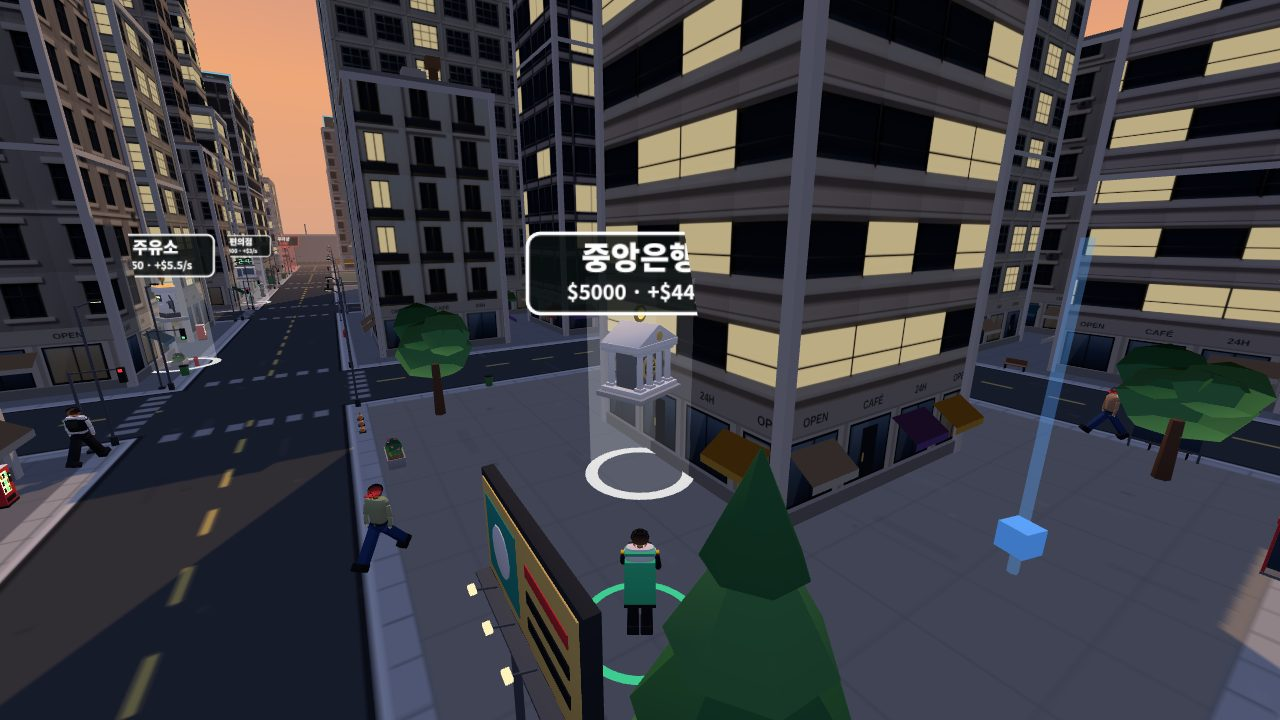
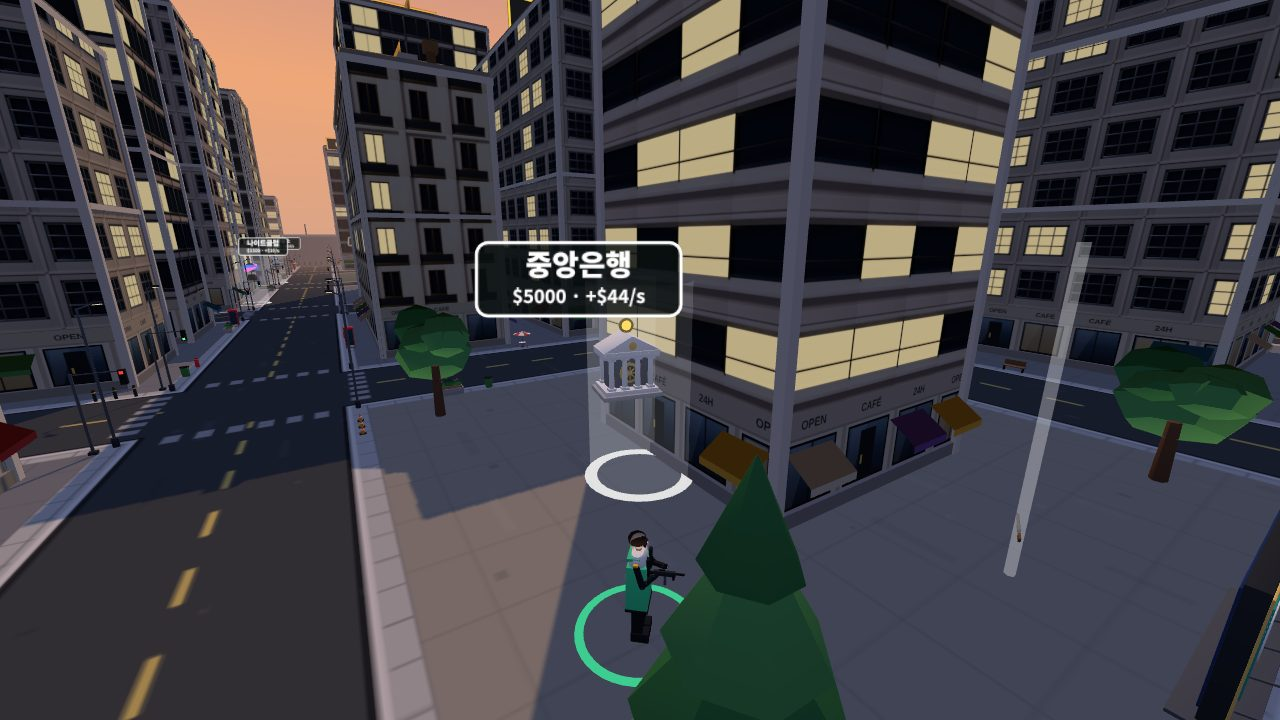
LAST CITY: 사업체 표식·이름표·거리 소품이 건물과 겹치지 않게 배치
- 사업체 이름표와 표식을 건물 바깥쪽으로 밀고 크기를 줄여 벽에 파묻히지 않게 함
- 새 거리 소품은 연석 쪽으로 옮기고, 건물(차양 포함)·사업체 패드·나무·가로등·다른 소품과 겹치는 자리는 다시 뽑음

Claude-Session: https://claude.ai/code/session_01CBN3FTHD9h18kQtVtKTBcJ

diff --git a/src/city/modellayer.ts b/src/city/modellayer.ts
@@ -79,14 +79,41 @@ export class ModelLayer {
       const side = Math.floor(rng() * 4), t = 30 + rng() * (BLOCK - 60);
       return side === 0 ? { x: b.x + t, z: b.y + inset, nx: 0, ny: -1 } : side === 1 ? { x: b.x + BLOCK - inset, z: b.y + t, nx: 1, ny: 0 } : side === 2 ? { x: b.x + t, z: b.y + BLOCK - inset, nx: 0, ny: 1 } : { x: b.x + inset, z: b.y + t, nx: -1, ny: 0 };
     };
-    const plan: [string, number, number][] = [['hydrant', 1, 7], ['bin', 1, 9], ['mailbox', 0.5, 8], ['bench', 0.5, 12], ['dumpster', 0.3, 10], ['cone', 0.8, 8], ['barrier', 0.3, 9],
-      ['bus_stop', 0.35, 13], ['vending', 0.5, 30], ['billboard', 0.2, 31], ['kiosk', 0.25, 26], ['planter', 0.9, 22], ['bollards', 0.6, 5], ['phone_booth', 0.25, 12], ['street_sign', 0.7, 5], ['parasol', 0.35, 24]];
+    const plan: [string, number, number][] = [['hydrant', 1, 7], ['bin', 1, 9], ['mailbox', 0.5, 8], ['bench', 0.5, 12], ['dumpster', 0.3, 10], ['cone', 0.8, 8], ['barrier', 0.3, 9]];
+    const placed: { x: number; z: number; r: number }[] = [];
     for (const [name, per, inset] of plan) {
       const items: { x: number; z: number; ry: number }[] = [];
       for (const b of w.map.blocks) { if (b.type === 'base') continue; let n = Math.floor(per) + (rng() < per % 1 ? 1 : 0); if (name === 'barrier' && b.type !== 'police' && b.type !== 'military') n = rng() < 0.15 ? 1 : 0; while (n-- > 0) { const e = edge(b, inset); items.push({ x: e.x, z: e.z, ry: -Math.atan2(e.ny, e.nx) + (name === 'barrier' ? Math.PI / 2 : 0) }); if (name === 'cone') for (let k = 1; k < 3; k++) items.push({ x: e.x + k * 14 * (e.ny !== 0 ? 1 : 0), z: e.z + k * 14 * (e.nx !== 0 ? 1 : 0), ry: 0 }); } }
-      if (!B[name] || !items.length) continue; // 새 소품은 예전 props.glb 에 없을 수 있습니다
+      for (const it of items) placed.push({ x: it.x, z: it.z, r: 8 });
       const m = this.inst(B[name], this.lam, items.length, false); if (!m) continue; items.forEach((it, k) => put(m, k, it.x, it.z, it.ry, 10)); m.count = items.length; m.instanceMatrix.needsUpdate = true;
-      const gg = B[name].glow; if (gg) { const gm = new THREE.InstancedMesh(gg, this.basic, items.length); gm.frustumCulled = false; items.forEach((it, k) => put(gm, k, it.x, it.z, it.ry, 10)); gm.instanceMatrix.needsUpdate = true; this.scene.add(gm); }
+    }
+    // 2차 거리 소품: 건물(차양 포함)·사업체 패드·나무·다른 소품과 겹치는 자리는 버리고 다시 뽑습니다.
+    // [이름, 블록당 개수, 연석에서의 거리, 깊이 절반, 폭 절반, 배율]
+    const AWNING = 17, street: [string, number, number, number, number, number][] = [
+      ['bus_stop', 0.35, 13, 9, 19, 10], ['vending', 0.5, 13, 5, 6, 10], ['billboard', 0.2, 12, 9, 30, 10], ['kiosk', 0.25, 13, 10, 13, 10], ['planter', 0.9, 11, 5, 12, 10],
+      ['bollards', 0.6, 5, 2, 14, 10], ['phone_booth', 0.25, 11, 6, 6, 10], ['street_sign', 0.7, 5, 5, 11, 10], ['parasol', 0.35, 12, 11, 11, 8]];
+    for (const b of w.map.blocks) for (const [dx, dy] of corners) placed.push({ x: b.x + dx, z: b.y + dy, r: 14 }); // 가로등·신호등 자리
+    const free = (x: number, z: number, hx: number, hz: number): boolean => {
+      for (const s of w.map.solids) if (x + hx > s.x - AWNING && x - hx < s.x + s.w + AWNING && z + hz > s.y - AWNING && z - hz < s.y + s.h + AWNING) return false;
+      const r = Math.max(hx, hz);
+      for (const zb of w.map.biz) if (Math.hypot(zb.x - x, zb.y - z) < 36 + r) return false;
+      for (const t of w.map.trees) if (Math.hypot(t.x - x, t.y - z) < 12 + r) return false;
+      for (const q of placed) if (Math.hypot(q.x - x, q.z - z) < q.r + r + 4) return false;
+      return true;
+    };
+    for (const [name, per, inset, hd, hw, scale] of street) {
+      if (!B[name]) continue; // 예전 props.glb 에는 없을 수 있습니다
+      const items: { x: number; z: number; ry: number }[] = [];
+      for (const b of w.map.blocks) {
+        if (b.type === 'base') continue; let n = Math.floor(per) + (rng() < per % 1 ? 1 : 0);
+        while (n-- > 0) for (let tries = 0; tries < 8; tries++) {
+          const e = edge(b, inset), hx = e.nx !== 0 ? hd : hw, hz = e.nx !== 0 ? hw : hd; if (!free(e.x, e.z, hx, hz)) continue;
+          items.push({ x: e.x, z: e.z, ry: -Math.atan2(e.ny, e.nx) }); placed.push({ x: e.x, z: e.z, r: Math.max(hd, hw) }); break;
+        }
+      }
+      if (!items.length) continue;
+      const m = this.inst(B[name], this.lam, items.length, false); if (!m) continue; items.forEach((it, k) => put(m, k, it.x, it.z, it.ry, scale)); m.count = items.length; m.instanceMatrix.needsUpdate = true;
+      const gg = B[name].glow; if (gg) { const gm = new THREE.InstancedMesh(gg, this.basic, items.length); gm.frustumCulled = false; items.forEach((it, k) => put(gm, k, it.x, it.z, it.ry, scale)); gm.instanceMatrix.needsUpdate = true; this.scene.add(gm); }
     }
     if (lamp) lamp.instanceMatrix.needsUpdate = true;
     if (glowLamp) glowLamp.instanceMatrix.needsUpdate = true;
@@ -100,7 +127,7 @@ export class ModelLayer {
   }
   makeLootGun(id: string): THREE.Object3D | null { const t = this.models.groundGuns[id]; return t ? instantiate(t) : null; }
   /** 사업체 패드 위에 띄우는 표식. team 은 소유 세력 색(중립은 흰색)입니다. */
-  makeBiz(kind: string, team: number): THREE.Object3D | null { const t = this.models.biz[kind]; if (!t) return null; const g = instantiate(t, { team }); g.traverse(o => { o.castShadow = false; }); g.scale.setScalar(13); return g; }
+  makeBiz(kind: string, team: number): THREE.Object3D | null { const t = this.models.biz[kind]; if (!t) return null; const g = instantiate(t, { team }); g.traverse(o => { o.castShadow = false; }); g.scale.setScalar(11); return g; }
   makeCrate(): THREE.Object3D | null { const t = this.models.props.crate; return t ? instantiate(t) : null; }
   makePlane(): THREE.Object3D | null { const t = this.models.props.plane; if (!t) return null; const g = instantiate(t); g.scale.setScalar(10); return g; }
 

diff --git a/src/city/render3d.ts b/src/city/render3d.ts
@@ -228,13 +228,17 @@ export class Renderer3D {
     if (!o) {
       const g = new THREE.Group(), ring = new THREE.Mesh(new THREE.RingGeometry(24, 31, 32).rotateX(-Math.PI / 2), new THREE.MeshBasicMaterial({ color: col, transparent: true, opacity: 0.9, side: THREE.DoubleSide, depthWrite: false })); ring.position.y = 1.2;
       const beam = new THREE.Mesh(new THREE.CylinderGeometry(28, 28, 110, 20, 1, true), new THREE.MeshBasicMaterial({ color: col, transparent: true, opacity: 0.16, side: THREE.DoubleSide, depthWrite: false })); beam.position.y = 55;
-      const label = new THREE.Sprite(new THREE.SpriteMaterial({ transparent: true, depthWrite: false })); label.scale.set(118, 44, 1); label.position.y = 112;
+      const label = new THREE.Sprite(new THREE.SpriteMaterial({ transparent: true, depthWrite: false })); label.scale.set(100, 37.5, 1);
+      // 표식과 이름표가 건물 벽에 파묻히지 않도록 건물 바깥쪽(차도 쪽)으로 밀어 둡니다.
+      const so = w.map.solids[z.solid]; let nx = 0, nz = 0;
+      if (so) { nx = z.x - Math.max(so.x, Math.min(so.x + so.w, z.x)); nz = z.y - Math.max(so.y, Math.min(so.y + so.h, z.y)); const l = Math.hypot(nx, nz); if (l > 0.01) { nx /= l; nz /= l; } else { nx = 0; nz = 0; } }
+      g.userData.out = [nx, nz]; label.position.set(nx * 34, 112, nz * 34);
       g.add(ring, beam, label); g.position.set(z.x, 0, z.y); this.scene.add(g); o = { g, sig: '', label, ring, beam, icon: null }; this.biz.set(z.id, o);
     }
     const sig = `${z.owner}:${z.level}`;
     if (sig !== o.sig) {
       o.sig = sig; (o.ring.material as THREE.MeshBasicMaterial).color.setHex(col);
-      if (this.ml) { if (o.icon) o.g.remove(o.icon); o.icon = this.ml.makeBiz(z.kind, col); if (o.icon) o.g.add(o.icon); } (o.beam.material as THREE.MeshBasicMaterial).color.setHex(col);
+      if (this.ml) { if (o.icon) o.g.remove(o.icon); o.icon = this.ml.makeBiz(z.kind, col); if (o.icon) { const out = o.g.userData.out as [number, number]; o.icon.position.set(out[0] * 8, 50, out[1] * 8); o.g.add(o.icon); } } (o.beam.material as THREE.MeshBasicMaterial).color.setHex(col);
       const css = z.kind === 'gunshop' ? '#ff5d5d' : z.owner >= 0 ? FACTIONS[z.owner].color : '#ffffff', line2 = z.kind === 'gunshop' ? 'E 구매' : z.owner < 0 ? `$${d.price} · +$${d.income}/s` : `${FACTIONS[z.owner].name} ${'★'.repeat(z.level)}`;
       o.label.material.map?.dispose(); o.label.material.map = canvasTex(320, 120, g => { g.fillStyle = 'rgba(10,16,16,0.82)'; g.beginPath(); g.roundRect(4, 4, 312, 112, 18); g.fill(); g.strokeStyle = css; g.lineWidth = 5; g.stroke(); g.textAlign = 'center'; g.fillStyle = '#fff'; g.font = "900 44px 'Noto Sans KR',sans-serif"; g.fillText(d.name, 160, 54); g.fillStyle = css; g.font = "700 28px 'Noto Sans KR',sans-serif"; g.fillText(line2, 160, 96); }); o.label.material.needsUpdate = true;
     }
